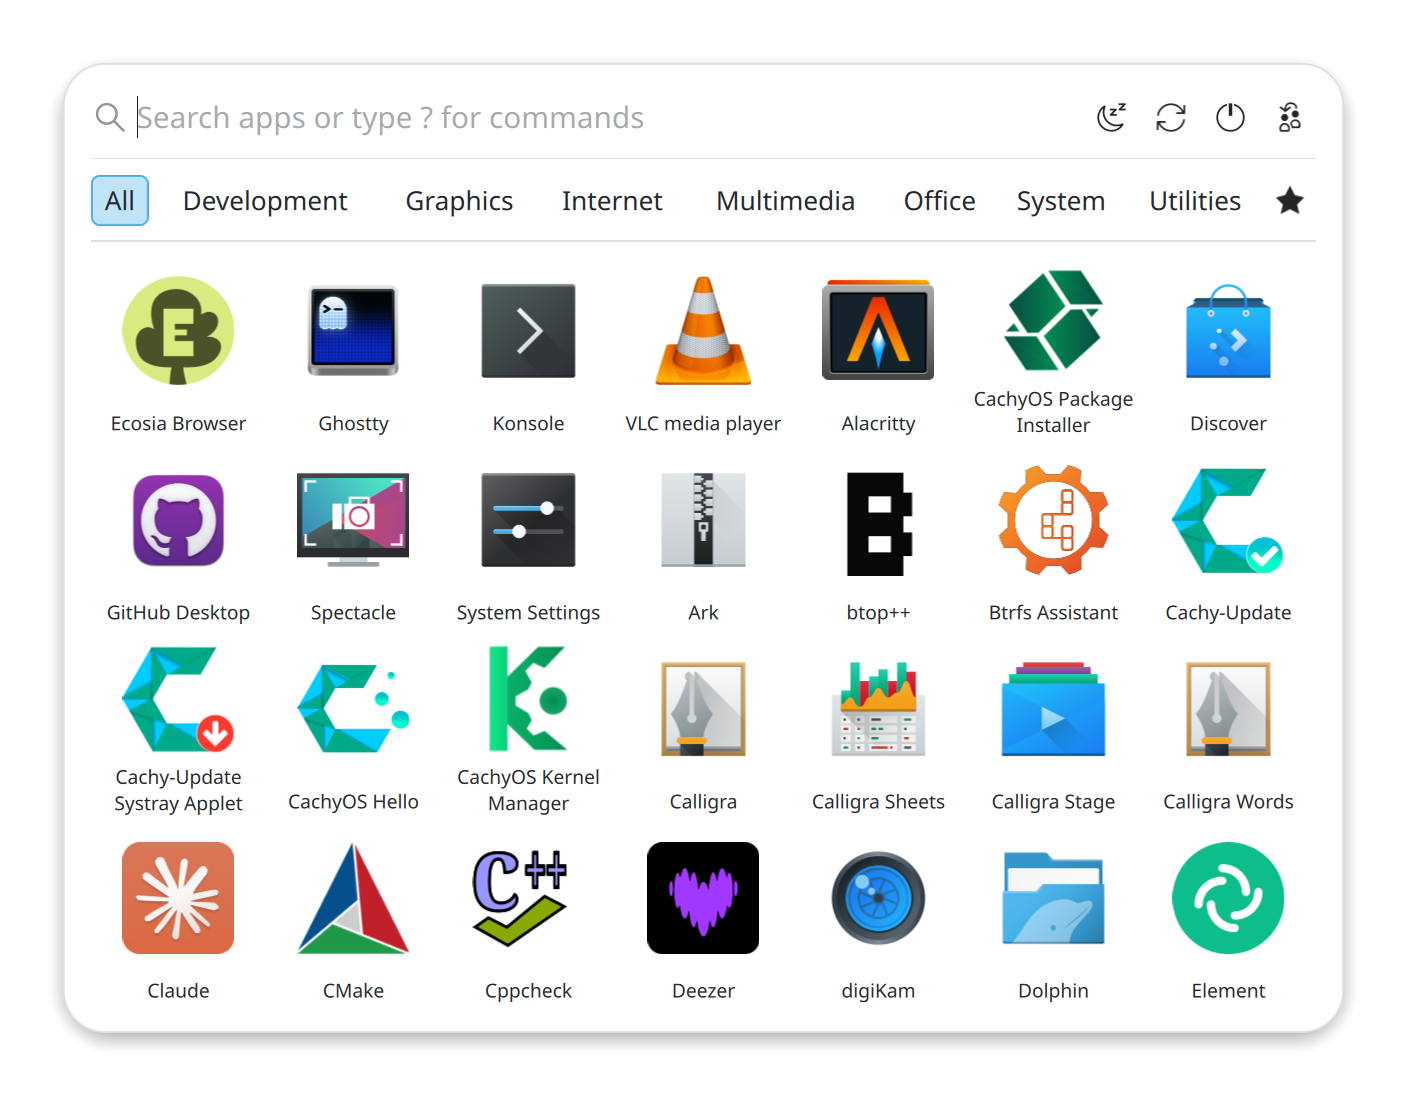
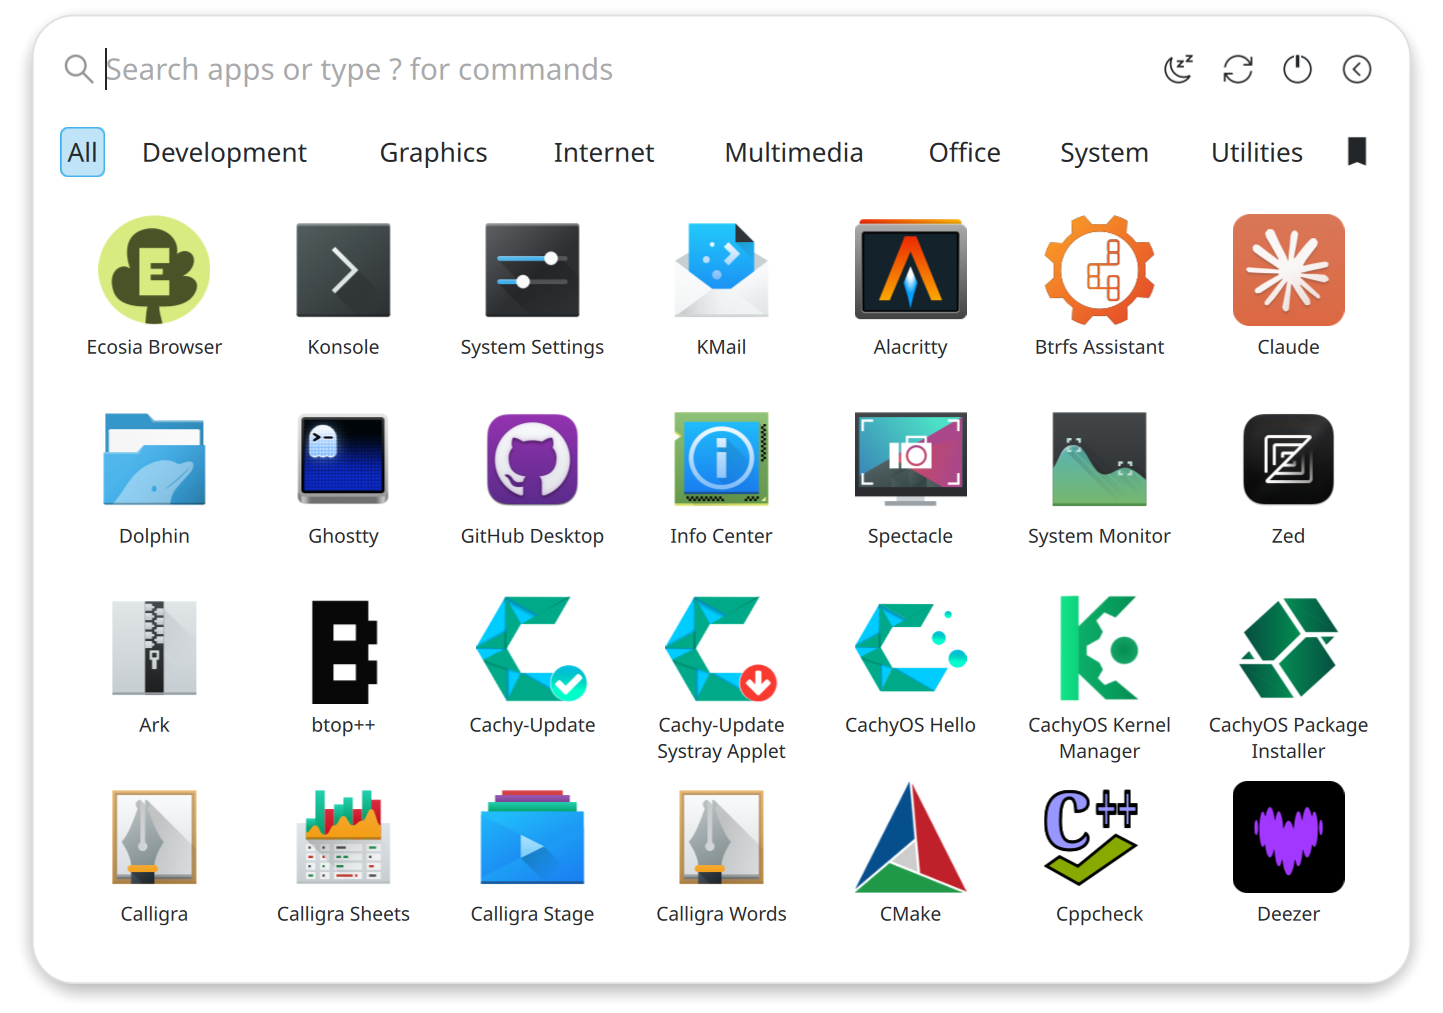
update README and appgrid panel

Changed region(s): [[0.0, 0.0306, 1.0, 1.0]]

diff --git a/package-panel/contents/ui/ConfigGeneral.qml b/package-panel/contents/ui/ConfigGeneral.qml
@@ -25,6 +25,7 @@ KCMUtils.SimpleKCM {
     property alias cfg_gridRows: gridRows.value
     property alias cfg_iconSize: iconSize.currentIndex
     property alias cfg_sortMode: sortMode.currentIndex
+    property alias cfg_showDividers: showDividers.checked
     property alias cfg_showScrollbars: showScrollbars.checked
     property alias cfg_showCategoryBar: showCategoryBar.checked
     property alias cfg_searchAll: searchAll.checked
@@ -230,8 +231,13 @@ KCMUtils.SimpleKCM {
         }
 
         QQC2.CheckBox {
-            id: showScrollbars
+            id: showDividers
             Kirigami.FormData.label: i18nd("dev.xarbit.appgrid", "Appearance:")
+            text: i18nd("dev.xarbit.appgrid", "Show divider lines")
+        }
+
+        QQC2.CheckBox {
+            id: showScrollbars
             text: i18nd("dev.xarbit.appgrid", "Show scrollbars")
         }
 
@@ -280,6 +286,7 @@ KCMUtils.SimpleKCM {
                 gridRows.value = 4
                 iconSize.currentIndex = 2
                 sortMode.currentIndex = 1
+                showDividers.checked = false
                 showScrollbars.checked = false
                 showCategoryBar.checked = true
                 searchAll.checked = true

diff --git a/README.md b/README.md
@@ -26,6 +26,8 @@ KDE Plasma ships with Kickoff and Kicker as its default application launchers. W
 
 ![App Grid](images/launcher-main.png)
 
+![App Grid Dark](images/launcher-main-dark.png)
+
 ![Search](images/search.png)
 
 ![Quick Commands](images/quick-commands.png)
